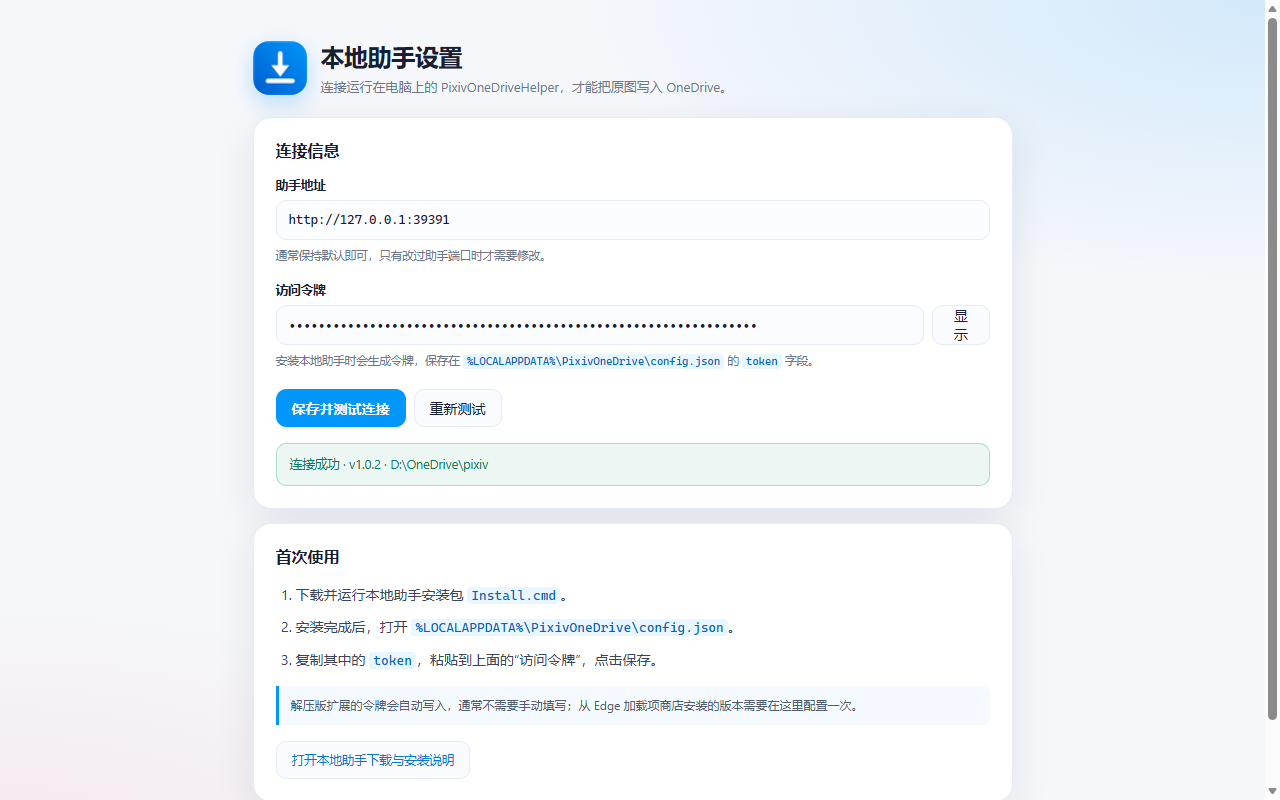
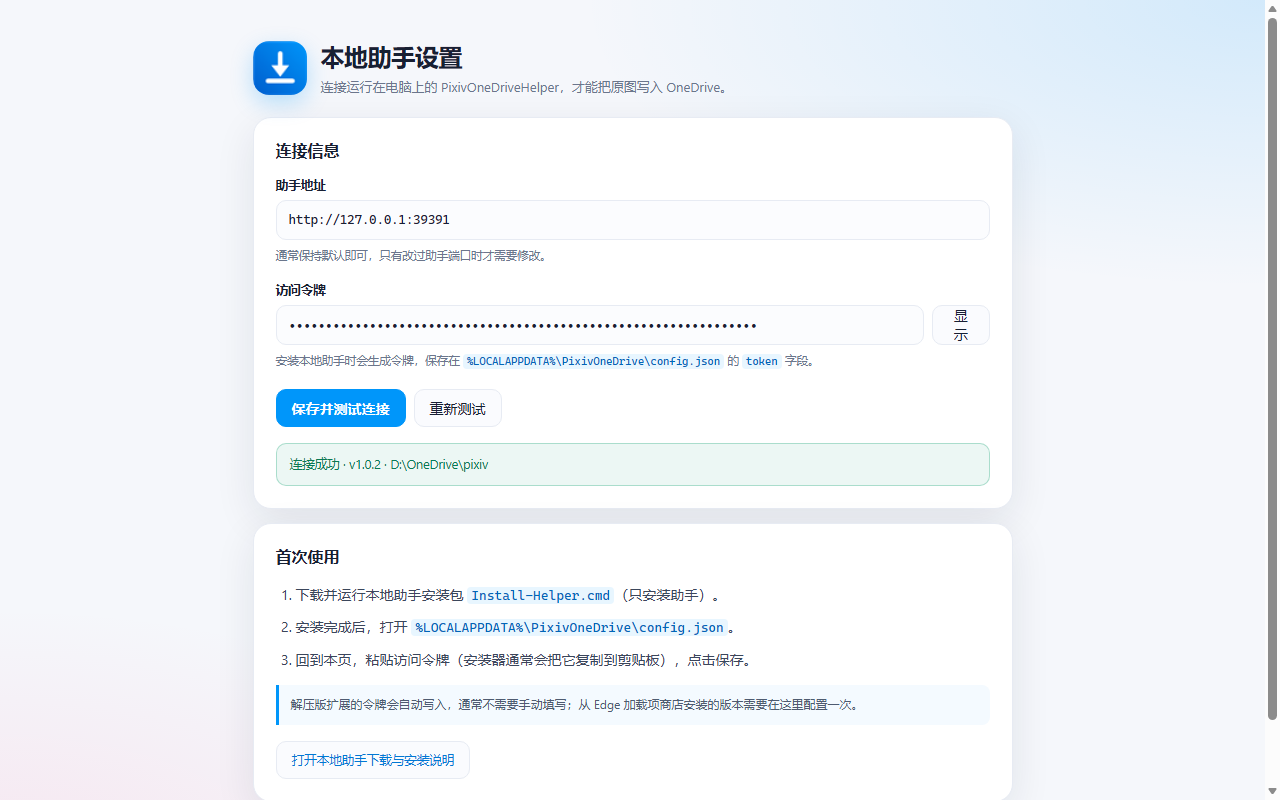
Polish store helper setup instructions

Changed region(s): [[0.2188, 0.875, 0.6875, 0.9062], [0.2188, 0.8125, 0.5938, 0.8438], [0.4062, 0.7188, 0.5625, 0.75]]

diff --git a/extension/options.html b/extension/options.html
@@ -62,9 +62,9 @@
       <section class="card">
         <h2>首次使用</h2>
         <ol class="steps">
-          <li>下载并运行本地助手安装包 <code>Install.cmd</code>。</li>
+          <li>下载并运行本地助手安装包 <code>Install-Helper.cmd</code>（只安装助手）。</li>
           <li>安装完成后，打开 <code>%LOCALAPPDATA%\PixivOneDrive\config.json</code>。</li>
-          <li>复制其中的 <code>token</code>，粘贴到上面的“访问令牌”，点击保存。</li>
+          <li>回到本页，粘贴访问令牌（安装器通常会把它复制到剪贴板），点击保存。</li>
         </ol>
         <p class="note">
           解压版扩展的令牌会自动写入，通常不需要手动填写；从 Edge 加载项商店安装的版本需要在这里配置一次。
